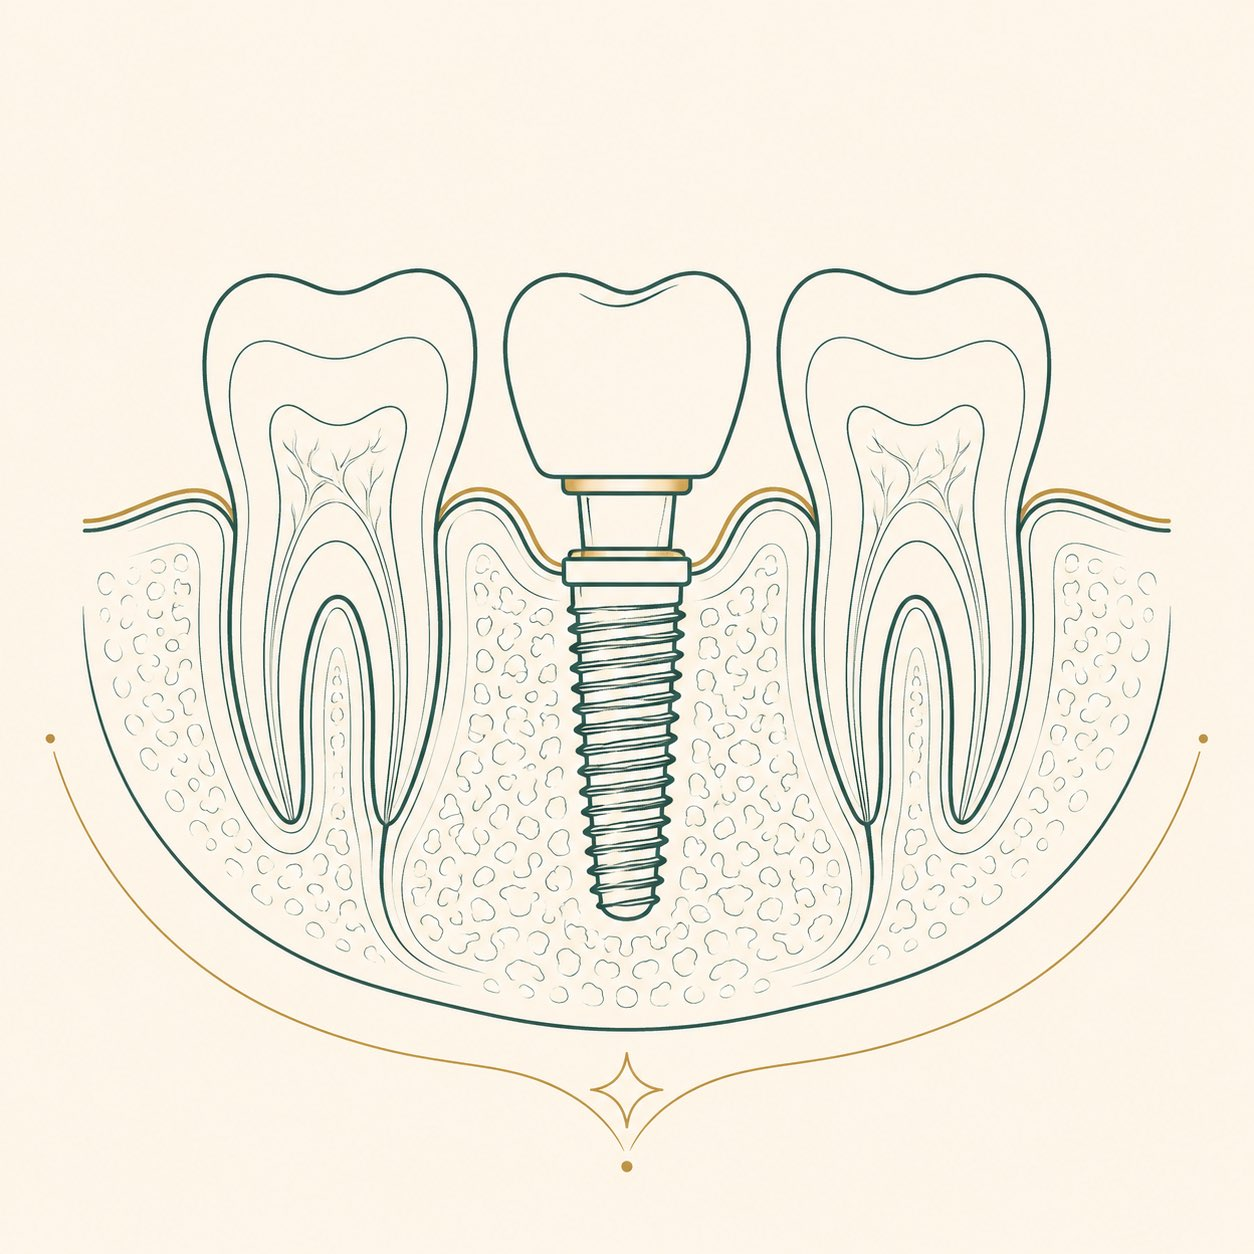
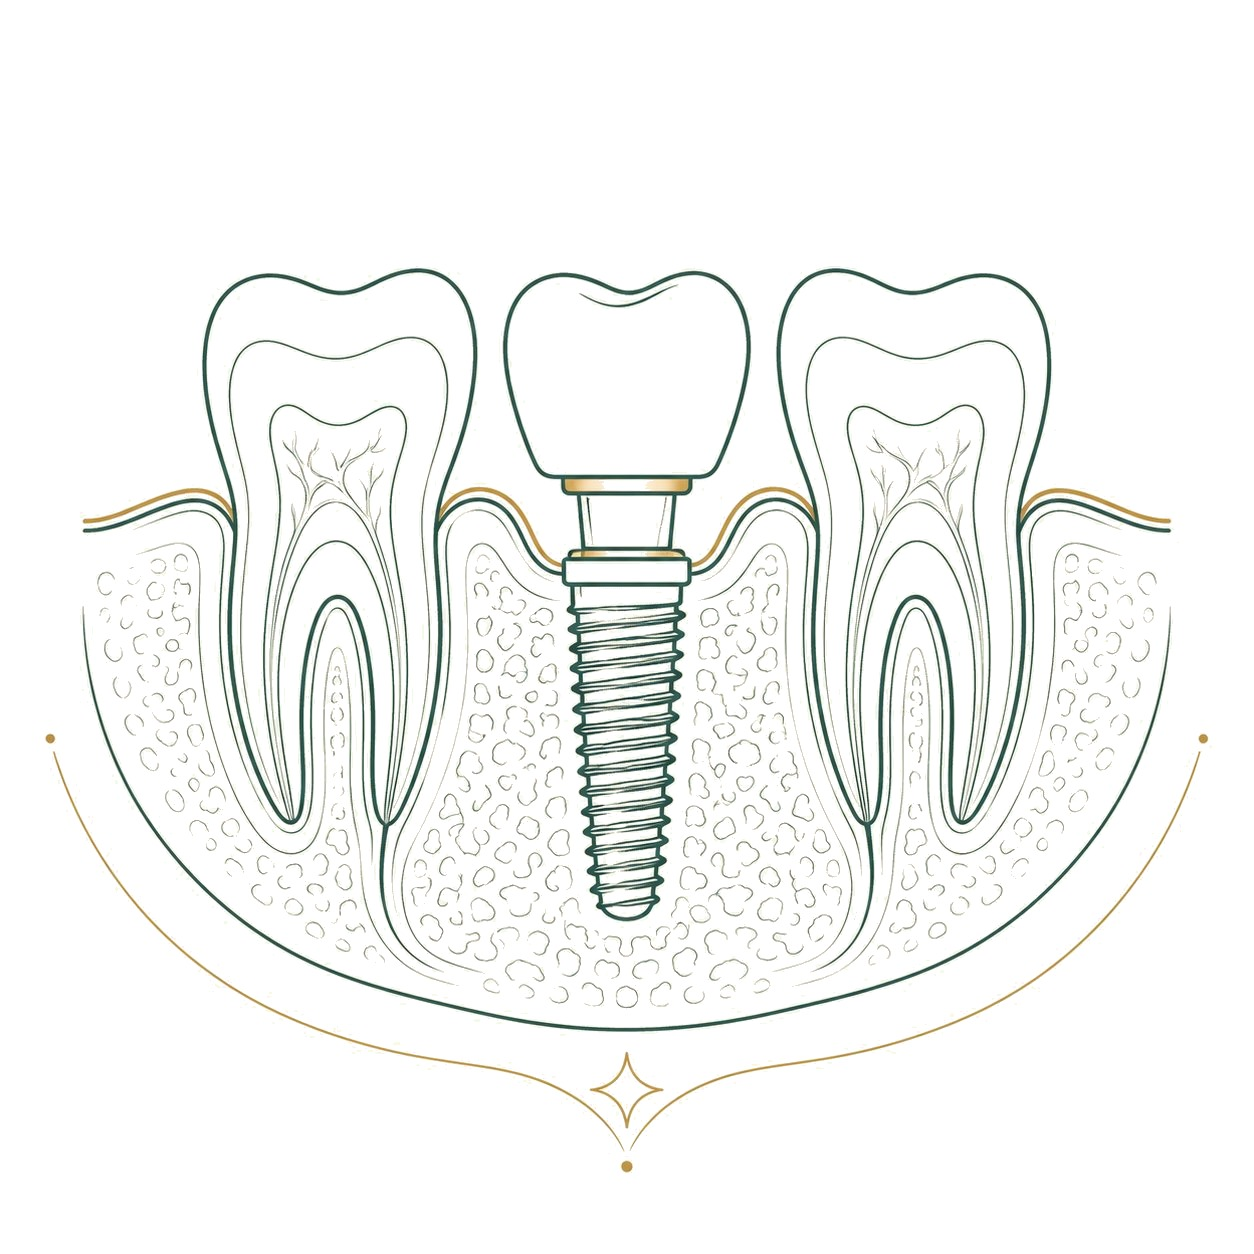
TR alt sayfa koyu tema: implant pilotu + paylasimli bg-theme.css
- docs/assets/css/bg-theme.css eklendi (paylasimli koyu tema: chrome + makale sablonu)
- logo-bogazici.svg + seal-footer.svg asset olarak eklendi (img referansli)
- tedaviler/implant.html yeni temaya cevrildi (hero band, gold aksan, Plus Jakarta + Fraunces)
- tedavi-implant.jpg beyaz zemine cevrildi
- canonical + og eklendi; icerik/byline/kaynakca/muhur korundu; RG 33075 uyumlu

diff --git a/docs/tedaviler/implant.html b/docs/tedaviler/implant.html
@@ -1,6 +1,6 @@
 <!--
   © 2026 Yıldırım Yavuz Kılıç. Tüm hakları saklıdır.
-  Boğaziçi Diş · Tedavi sayfası · İmplant · taslak v0.1
+  Boğaziçi Diş · Tedavi sayfası · İmplant · koyu tema v1
   Design & engineering: Y. Yavuz Kılıç
 -->
 <!DOCTYPE html>
@@ -11,9 +11,14 @@
 <meta name="author" content="Yıldırım Yavuz Kılıç">
 <title>İmplant Tedavisi · Boğaziçi Diş · İstanbul</title>
 <meta name="description" content="İmplant nedir, kimler için uygundur, tedavi nasıl ilerler? Bilimsel kaynaklara dayalı bilgilendirme. Özel Boğaziçi Ağız ve Diş Sağlığı Polikliniği, İstanbul.">
-<link rel="preconnect" href="https://fonts.googleapis.com">
-<link rel="preconnect" href="https://fonts.gstatic.com" crossorigin>
-<link href="https://fonts.googleapis.com/css2?family=Fraunces:ital,opsz,wght@0,9..144,340;0,9..144,420;0,9..144,520;1,9..144,340;1,9..144,420&family=Instrument+Sans:ital,wght@0,400;0,500;1,400&display=swap" rel="stylesheet">
+<link rel="canonical" href="https://swordlab34.github.io/bogazici-web/tedaviler/implant.html">
+<meta name="robots" content="index,follow">
+<meta property="og:type" content="article">
+<meta property="og:site_name" content="Boğaziçi Diş">
+<meta property="og:title" content="İmplant Tedavisi · Boğaziçi Diş · İstanbul">
+<meta property="og:description" content="İmplant nedir, kimler için uygundur, tedavi nasıl ilerler? Bilimsel kaynaklara dayalı bilgilendirme.">
+<meta property="og:url" content="https://swordlab34.github.io/bogazici-web/tedaviler/implant.html">
+<meta property="og:image" content="https://swordlab34.github.io/bogazici-web/assets/tedavi/tedavi-implant.jpg">
 <script type="application/ld+json">
 {
   "@context": "https://schema.org",
@@ -24,84 +29,52 @@
   "inLanguage": "tr"
 }
 </script>
-<style>
-:root{--bone:#F1EDE3;--bone-deep:#E8E2D4;--petrol:#0B4A40;--petrol-deep:#062E28;--gold:#B99141;--gold-soft:#D3B878;--ink:#1C2321;--ink-soft:#575F5A;--hairline:rgba(28,35,33,.2)}
-*{margin:0;padding:0;box-sizing:border-box}
-html{scroll-behavior:smooth}
-body{background:var(--bone);color:var(--ink);font-family:"Instrument Sans",system-ui,sans-serif;font-size:16.5px;line-height:1.65;-webkit-font-smoothing:antialiased}
-a{color:inherit}
-header{display:flex;align-items:center;justify-content:space-between;gap:24px;padding:20px clamp(24px,5vw,72px);border-bottom:1px solid var(--hairline)}
-.brand{display:flex;flex-direction:column;align-items:center;gap:7px;text-decoration:none}
-.hlogo{width:180px;height:auto;display:block}
-.hlogo path,.hlogo text{fill:var(--petrol-deep)}
-.sub{font-size:9px;letter-spacing:.42em;text-indent:.42em;text-align:center;text-transform:uppercase;color:var(--ink-soft);font-weight:500}
-.back{font-size:12px;letter-spacing:.16em;text-transform:uppercase;font-weight:500;text-decoration:none;border-bottom:1px solid var(--hairline);padding-bottom:3px;transition:border-color .3s,color .3s}
-.back:hover{color:var(--gold);border-color:var(--gold)}
-main{max-width:760px;margin:0 auto;padding:clamp(40px,7vh,72px) 24px clamp(56px,9vh,96px)}
-.micro{font-size:11px;letter-spacing:.24em;text-transform:uppercase;font-weight:500;color:var(--ink-soft)}
-h1{font-family:"Fraunces",Georgia,serif;font-weight:420;font-size:clamp(30px,4.5vw,44px);letter-spacing:-.01em;line-height:1.15;margin:14px 0 6px}
-.updated{font-size:12.5px;letter-spacing:.08em;text-transform:uppercase;color:var(--ink-soft);margin-bottom:34px}
-h2{font-family:"Fraunces",Georgia,serif;font-weight:420;font-size:22px;line-height:1.3;margin:34px 0 10px}
-p{margin:0 0 14px;color:#2A322F}
-ul{margin:0 0 14px 20px}
-li{margin-bottom:7px;color:#2A322F}
-.note{margin-top:36px;padding-top:18px;border-top:1px solid var(--hairline);font-size:13.5px;color:var(--ink-soft)}
-footer{border-top:1px solid var(--hairline);padding:18px clamp(24px,5vw,72px) 24px;display:flex;justify-content:space-between;flex-wrap:wrap;gap:12px;font-size:12.5px;color:var(--ink-soft);letter-spacing:.04em}
-footer .addr,footer .legalnav{flex-basis:100%;text-align:center;margin:0 0 6px;font-size:11.5px;letter-spacing:.16em;text-transform:uppercase}
-footer a{color:inherit;text-decoration:none;transition:color .3s}
-footer a:hover{color:var(--gold)}
-footer .legalnav a{border-bottom:1px solid var(--hairline);padding-bottom:2px}
-
-.meta{display:flex;flex-wrap:wrap;gap:8px 22px;margin-bottom:34px}
-.meta span{font-size:12.5px;letter-spacing:.08em;text-transform:uppercase;color:var(--ink-soft)}
-.lead{font-size:18.5px;line-height:1.7;color:#232B28;margin-bottom:22px}
-h2{margin-top:38px}
-.sss{margin-top:44px;border-top:1px solid var(--hairline);padding-top:8px}
-.sss h2{margin-top:26px}
-details{border-bottom:1px solid var(--hairline);padding:16px 0}
-summary{cursor:pointer;font-family:"Fraunces",Georgia,serif;font-size:18px;font-weight:420;list-style:none;position:relative;padding-right:28px}
-summary::-webkit-details-marker{display:none}
-summary::after{content:"+";position:absolute;right:2px;top:0;color:var(--gold);font-family:"Instrument Sans",sans-serif;font-weight:500;transition:transform .25s}
-details[open] summary::after{transform:rotate(45deg)}
-details p{margin:12px 0 4px;color:#2A322F}
-.kaynak{margin-top:44px;border-top:1px solid var(--hairline);padding-top:18px}
-.kaynak h2{margin-top:8px;font-size:19px}
-.kaynak ol{margin:10px 0 0 20px}
-.kaynak li{font-size:13.5px;color:var(--ink-soft);margin-bottom:8px;line-height:1.55}
-.uyari{margin-top:36px;padding:18px 20px;background:var(--bone-deep);border-left:2px solid var(--gold);font-size:13.5px;color:#2A322F;line-height:1.6}
-.geri-tedavi{display:inline-block;margin-top:34px;font-size:12px;letter-spacing:.16em;text-transform:uppercase;font-weight:500;border-bottom:1px solid var(--hairline);padding-bottom:3px}
-.geri-tedavi:hover{color:var(--gold);border-color:var(--gold)}
-</style>
-<style>
-.cta-altsayfa{margin:40px 0 8px;padding:30px 26px;border:1px solid var(--gold,#B99141);border-radius:14px;background:transparent;text-align:center}
-.cta-altsayfa-txt{margin:0 0 18px;font-size:1.02rem;line-height:1.55;color:var(--ink,#1a1a1a)}
-.cta-line{display:inline-block;white-space:nowrap;font-size:13px;letter-spacing:.16em;text-transform:uppercase;font-weight:500;color:var(--ink,#1a1a1a);border-bottom:1px solid var(--ink,#1a1a1a);padding-bottom:6px;transition:color .3s,border-color .3s;text-decoration:none}
-.cta-line:hover{color:var(--gold,#B99141);border-color:var(--gold,#B99141)}
-.cta-line .arrow{display:inline-block;transform:translateY(1px);margin-left:8px;transition:transform .3s}
-.cta-line:hover .arrow{transform:translate(4px,1px)}
-</style>
+<link rel="preconnect" href="https://fonts.googleapis.com">
+<link rel="preconnect" href="https://fonts.gstatic.com" crossorigin>
+<link href="https://fonts.googleapis.com/css2?family=Fraunces:ital,opsz,wght@0,9..144,400;0,9..144,500;1,9..144,400;1,9..144,500&family=Plus+Jakarta+Sans:wght@400;500;600;700;800&display=swap" rel="stylesheet">
+<link rel="stylesheet" href="../assets/css/bg-theme.css">
 </head>
 <body>
+
 <header>
-  <a class="brand" href="../index.html" aria-label="Boğaziçi Diş ana sayfa">
-    <svg class="hlogo" viewBox="-16 284 1849 597" aria-hidden="true"><path d="M301.0,865.7C300.7,865.4 295.8,864.6 290.0,864.0C267.0,861.6 243.8,855.4 224.0,846.4C197.5,834.4 171.9,816.0 154.4,796.4C147.9,789.1 135.0,772.6 135.0,771.5C135.0,771.2 133.2,768.1 131.0,764.5C121.2,748.5 114.8,732.6 108.9,710.1C107.3,703.8 106.2,698.5 106.4,698.3C106.8,697.9 114.0,708.4 114.0,709.4C114.0,710.4 126.6,730.7 132.7,739.5C152.3,767.9 177.9,793.6 202.3,809.4C215.3,817.8 234.4,827.9 237.4,828.0C238.0,828.0 239.4,828.7 240.4,829.5C241.5,830.3 243.2,831.0 244.3,831.0C245.3,831.0 247.4,831.6 248.8,832.4C252.2,834.1 259.4,836.3 268.5,838.5C272.4,839.4 277.8,840.8 280.6,841.6C283.4,842.4 287.5,843.0 289.8,843.0C292.0,843.0 296.7,843.6 300.2,844.4C309.3,846.5 346.2,847.4 375.0,846.1C388.4,845.6 399.6,845.3 399.9,845.5C400.9,846.5 397.8,848.7 392.8,850.5C389.9,851.5 386.4,853.0 385.0,853.7C383.6,854.4 382.0,855.0 381.3,855.0C380.6,855.0 378.6,855.6 376.8,856.4C372.1,858.4 356.8,861.8 344.2,863.7C333.7,865.2 302.0,866.7 301.0,865.7z M440.1,858.5C439.0,856.5 438.0,854.3 438.0,853.7C437.9,853.0 436.8,850.7 435.5,848.5C434.1,846.3 432.7,843.8 432.3,843.0C430.6,839.2 421.6,828.5 411.2,817.7C404.9,811.2 400.0,805.7 400.4,805.3C400.7,804.9 403.4,804.7 406.3,804.8C424.2,805.5 437.0,812.9 444.0,826.6C447.2,832.8 447.5,834.3 447.5,841.5C447.4,848.8 445.1,859.0 443.0,861.3C442.6,861.8 441.3,860.5 440.1,858.5z M126.5,804.3C120.4,802.7 112.1,793.7 84.7,758.5C67.9,736.9 44.0,700.9 32.5,680.0C29.0,673.6 16.2,647.6 13.4,641.2C12.6,639.5 11.4,636.5 10.6,634.8C7.9,628.6 4.2,618.5 3.0,614.2C2.4,611.9 1.5,610.0 1.0,610.0C-0.2,610.0 -0.4,377.3 0.8,376.8C1.2,376.6 3.5,372.7 5.9,368.0C16.8,346.6 27.7,332.5 41.9,321.7C53.3,313.1 57.9,310.9 78.0,304.5C87.7,301.4 125.1,301.8 138.0,305.0C152.6,308.7 165.8,312.5 168.0,313.5C172.5,315.7 178.1,318.0 179.0,318.0C180.0,318.0 192.6,323.9 217.8,336.2C229.8,342.0 236.6,346.0 237.7,347.6C239.2,349.9 239.2,350.2 237.1,352.4C235.0,354.6 210.1,367.9 205.5,369.3C204.4,369.6 200.8,371.0 197.5,372.4C190.7,375.3 181.5,375.9 177.2,373.6C150.9,359.9 135.2,355.5 115.0,356.2C102.4,356.7 96.4,358.0 87.2,362.2C77.4,366.8 64.6,379.6 59.9,389.5C59.4,390.6 58.6,392.2 58.0,393.0C54.0,399.3 47.1,419.0 44.4,431.5C39.0,457.6 38.7,461.4 38.7,504.0C38.7,539.6 39.0,546.5 40.9,561.0C43.4,579.7 44.6,588.1 46.2,596.0C46.7,599.0 47.5,603.8 47.9,606.5C48.3,609.2 49.2,613.5 49.9,616.0C50.6,618.5 51.6,622.1 52.1,624.0C55.4,637.1 56.3,640.8 56.8,643.5C57.0,645.1 57.9,647.4 58.6,648.5C59.4,649.6 60.0,651.2 60.0,652.0C60.0,654.3 65.8,671.9 67.5,675.2C68.3,676.6 69.0,678.5 69.0,679.4C69.0,680.2 69.6,682.4 70.4,684.2C71.2,686.0 73.3,691.1 75.0,695.5C76.8,699.9 79.5,706.2 81.1,709.5C83.5,714.7 86.9,722.3 90.1,729.5C90.6,730.6 91.4,732.2 92.0,733.0C92.5,733.8 95.2,739.2 98.0,745.0C108.0,765.5 122.0,789.5 128.8,797.8C134.1,804.3 133.5,806.0 126.5,804.3z M1814.5,558.4C1808.6,549.3 1773.3,513.2 1762.3,504.9C1759.1,502.6 1756.0,500.1 1755.5,499.5C1753.6,497.4 1738.5,486.3 1729.5,480.4C1708.0,466.2 1683.6,452.8 1666.0,445.5C1662.4,444.0 1659.1,442.4 1658.5,441.9C1658.0,441.4 1657.0,441.0 1656.2,441.0C1655.4,441.0 1653.4,440.4 1651.7,439.6C1620.2,426.0 1559.2,410.9 1524.5,408.0C1519.0,407.6 1512.5,406.7 1510.0,406.1C1504.3,404.7 1470.0,403.0 1448.7,403.0C1425.0,403.0 1389.7,404.8 1380.6,406.5C1376.3,407.3 1370.2,408.0 1367.1,408.0C1361.5,408.0 1351.3,409.4 1328.5,413.2C1321.9,414.3 1313.8,415.6 1310.5,416.1C1307.2,416.6 1301.3,417.7 1297.5,418.5C1293.7,419.4 1287.6,420.7 1284.0,421.5C1263.4,425.9 1249.0,429.3 1245.7,430.6C1243.7,431.4 1241.1,432.0 1240.0,432.0C1238.9,432.0 1232.3,433.6 1225.3,435.6C1218.3,437.6 1210.2,439.8 1207.5,440.4C1204.8,441.1 1201.8,441.9 1201.0,442.3C1200.2,442.6 1195.9,443.8 1191.5,445.0C1187.1,446.2 1179.0,448.5 1173.5,450.2C1168.0,451.8 1161.5,453.7 1159.0,454.4C1156.5,455.2 1150.5,457.0 1145.5,458.5C1120.9,465.9 1108.4,469.6 1101.5,471.5C1098.2,472.4 1093.2,474.0 1090.5,475.1C1087.7,476.1 1084.8,477.0 1084.0,477.0C1083.2,477.0 1077.3,478.7 1071.0,480.6C1064.7,482.6 1057.2,484.8 1054.5,485.6C1051.8,486.3 1047.2,487.6 1044.5,488.4C1040.1,489.8 1035.4,491.1 1013.3,497.3C1010.5,498.1 1007.6,499.1 1006.9,499.6C1006.2,500.0 1003.8,500.7 1001.5,501.1C999.3,501.5 992.5,503.2 986.5,505.0C980.5,506.8 972.8,508.8 969.5,509.5C953.6,513.0 949.9,513.9 946.8,514.8C945.0,515.4 939.2,516.6 934.0,517.5C928.8,518.4 923.5,519.6 922.3,520.1C921.0,520.5 917.0,521.2 913.3,521.6C909.5,522.0 905.4,522.7 904.0,523.2C902.6,523.7 898.1,524.6 894.0,525.1C889.9,525.6 882.2,526.7 877.0,527.5C871.8,528.4 862.1,529.7 855.5,530.5C844.3,531.9 838.2,532.6 817.0,535.1C807.1,536.2 792.4,537.5 772.0,539.1C749.0,540.9 680.4,540.6 654.5,538.7C631.4,536.9 607.7,534.7 592.5,532.9C587.5,532.3 580.1,531.4 576.0,530.9C571.9,530.4 566.5,529.6 564.0,529.1C561.5,528.6 555.2,527.4 550.0,526.5C544.8,525.6 537.4,524.3 533.5,523.5C529.6,522.7 524.0,521.6 521.0,521.0C504.6,517.7 501.0,517.0 495.5,515.4C492.2,514.5 487.9,513.4 486.0,513.1C484.1,512.7 480.9,511.8 479.0,511.2C477.1,510.6 470.8,508.7 465.0,507.0C449.5,502.3 444.9,500.8 441.0,499.5C439.1,498.8 434.8,497.5 431.5,496.5C420.8,493.4 416.9,491.8 417.3,490.6C417.9,488.9 431.6,488.7 439.0,490.4C442.6,491.2 449.8,492.6 455.0,493.5C460.2,494.4 466.7,495.6 469.5,496.2C472.2,496.8 477.2,497.6 480.5,498.0C483.8,498.4 488.5,499.2 491.0,499.8C493.5,500.5 500.0,501.7 505.5,502.6C511.0,503.4 517.2,504.5 519.4,505.0C526.8,506.6 528.0,504.5 528.0,489.3C528.0,479.0 525.3,465.9 522.9,464.4C522.4,464.1 522.0,463.3 522.0,462.5C522.0,459.9 514.5,448.5 508.6,442.2C495.9,428.6 478.9,420.2 458.0,417.0C450.8,415.9 425.0,415.9 418.0,417.0C406.6,418.8 386.3,424.0 379.5,426.9C378.4,427.4 374.4,428.8 370.5,430.0C362.0,432.6 347.1,437.9 345.0,439.0C344.1,439.4 341.9,440.1 340.0,440.5C338.1,440.9 336.1,441.6 335.5,442.0C334.5,442.7 305.4,452.1 296.5,454.6C267.3,462.6 233.3,466.3 206.7,464.2C185.8,462.5 178.7,461.5 165.7,458.5C147.4,454.2 136.0,450.2 136.0,448.2C136.0,446.7 136.5,446.7 165.5,446.9C185.0,447.1 192.0,446.7 203.0,445.1C210.4,444.1 217.8,442.7 219.3,442.1C220.9,441.5 223.3,441.0 224.8,441.0C226.2,441.0 229.2,440.4 231.5,439.6C233.7,438.9 238.2,437.5 241.5,436.5C244.8,435.5 250.7,433.6 254.5,432.3C258.4,430.9 262.9,429.5 264.5,429.0C266.1,428.5 274.0,425.8 282.0,423.0C290.0,420.2 297.9,417.5 299.5,417.0C305.0,415.4 327.5,407.8 329.3,406.8C330.3,406.3 336.1,404.4 342.3,402.4C348.5,400.5 355.1,398.3 357.0,397.6C361.3,395.9 368.1,394.1 374.0,393.0C376.5,392.6 379.6,391.7 381.0,391.2C383.5,390.2 391.1,388.6 408.4,385.4C421.3,383.1 458.9,383.0 468.0,385.4C478.7,388.2 481.2,389.1 489.0,392.8C499.3,397.7 504.4,401.2 512.3,408.9C523.4,419.6 531.4,432.8 536.8,449.5C541.9,465.3 542.0,465.3 545.1,492.5C546.4,503.7 547.5,505.7 552.9,506.6C554.9,506.9 558.5,507.8 560.9,508.6C563.4,509.4 566.5,510.0 567.8,510.0C569.2,510.0 572.6,510.6 575.4,511.4C584.3,513.9 613.6,519.0 618.9,519.0C620.8,519.0 626.0,519.6 630.4,520.4C652.9,524.4 731.1,524.4 764.5,520.5C771.1,519.7 781.5,518.6 787.5,518.0C793.5,517.3 801.0,516.5 804.0,516.0C819.6,513.8 826.2,512.8 833.0,511.4C837.2,510.7 842.1,510.0 844.0,510.0C845.8,510.0 849.9,509.4 852.9,508.6C856.0,507.8 866.4,505.7 876.0,504.0C885.6,502.3 894.9,500.4 896.5,499.8C898.1,499.2 901.8,498.4 904.5,498.0C907.2,497.6 911.5,496.8 914.0,496.1C927.6,492.6 940.1,489.7 944.2,489.0C946.8,488.5 949.8,487.7 950.9,487.1C952.0,486.5 954.3,486.0 956.0,486.0C957.7,486.0 960.0,485.5 961.1,485.0C963.3,483.8 984.5,478.1 990.8,477.0C993.2,476.6 995.6,475.8 996.2,475.2C996.9,474.5 998.4,474.0 999.6,474.0C1000.8,474.0 1004.2,473.3 1007.1,472.4C1010.1,471.5 1014.8,470.2 1017.5,469.4C1020.2,468.6 1024.9,467.3 1027.8,466.5C1030.6,465.7 1035.4,464.4 1038.2,463.6C1041.1,462.8 1047.3,461.0 1052.0,459.6C1056.7,458.2 1062.1,456.7 1064.0,456.4C1065.9,456.0 1068.3,455.3 1069.2,454.8C1070.2,454.3 1072.9,453.6 1075.2,453.1C1077.6,452.6 1080.8,451.7 1082.5,451.1C1084.2,450.5 1088.2,449.3 1091.5,448.4C1094.8,447.5 1099.8,446.1 1102.5,445.3C1105.2,444.6 1109.9,443.3 1112.8,442.5C1115.6,441.7 1120.4,440.3 1123.2,439.5C1131.6,437.2 1135.9,436.0 1145.7,433.5C1150.7,432.2 1155.7,430.7 1156.8,430.1C1158.0,429.5 1159.9,429.0 1161.2,429.0C1162.5,429.0 1165.5,428.3 1168.0,427.5C1172.9,425.9 1185.8,422.6 1195.9,420.3C1199.4,419.6 1203.1,418.5 1204.1,418.0C1205.1,417.4 1207.2,417.0 1208.9,417.0C1210.6,417.0 1213.7,416.4 1215.7,415.6C1217.8,414.9 1223.1,413.5 1227.5,412.5C1231.9,411.6 1238.0,410.2 1241.1,409.4C1244.1,408.6 1248.0,408.0 1249.6,408.0C1251.2,408.0 1253.8,407.3 1255.4,406.5C1256.9,405.7 1259.4,405.0 1260.9,405.0C1262.4,405.0 1266.0,404.4 1269.0,403.6C1272.0,402.9 1279.2,401.5 1285.0,400.6C1290.8,399.6 1298.0,398.2 1301.1,397.4C1304.1,396.6 1308.6,396.0 1311.1,396.0C1313.5,396.0 1318.0,395.3 1321.0,394.5C1324.0,393.7 1328.8,393.0 1331.5,393.0C1334.2,393.0 1340.5,392.4 1345.5,391.6C1360.9,389.2 1426.4,385.0 1449.0,385.0C1476.5,385.0 1529.2,389.8 1552.5,394.5C1556.3,395.3 1561.8,396.3 1564.5,396.8C1569.1,397.7 1578.3,399.9 1587.0,402.1C1588.9,402.6 1593.0,403.5 1596.0,404.2C1599.0,405.0 1602.5,406.1 1603.7,406.8C1604.9,407.4 1606.7,408.0 1607.7,408.0C1609.5,408.0 1624.5,413.0 1635.0,417.0C1638.0,418.2 1641.6,419.5 1643.0,420.0C1654.4,423.7 1694.0,443.2 1710.5,453.1C1712.2,454.1 1715.5,456.1 1718.0,457.5C1723.5,460.6 1724.3,461.1 1734.7,468.2C1739.3,471.4 1743.3,474.0 1743.5,474.0C1743.7,474.0 1746.9,476.3 1750.6,479.1C1776.4,498.6 1797.9,520.6 1813.2,543.1C1817.5,549.4 1818.0,550.8 1818.0,555.6C1818.0,561.6 1817.1,562.3 1814.5,558.4z M166.0,418.5C166.0,417.7 166.7,417.0 167.5,417.0C168.3,417.0 170.6,416.1 172.7,415.1C179.7,411.5 188.2,408.0 190.0,408.0C191.0,408.0 192.3,407.3 193.0,406.5C193.7,405.7 195.0,405.0 196.0,405.0C197.6,405.0 200.8,403.7 214.0,397.9C216.5,396.8 219.8,395.3 221.5,394.6C228.0,391.7 257.5,376.7 261.1,374.4C263.2,373.1 265.2,372.0 265.4,372.0C265.8,372.0 298.2,353.1 303.0,350.1C306.5,347.8 318.6,340.6 320.4,339.6C321.6,339.0 324.4,337.2 326.8,335.7C329.1,334.2 332.9,331.9 335.1,330.7C341.9,327.0 342.7,326.5 344.1,325.3C347.9,322.3 370.3,311.7 378.8,309.0C384.2,307.3 389.9,305.4 391.5,304.8C393.1,304.2 397.4,303.4 401.0,303.0C404.6,302.5 409.5,301.7 412.0,301.0C421.1,298.7 451.2,301.0 459.5,304.6C461.1,305.3 465.4,306.9 468.8,308.1C472.3,309.3 476.7,311.4 478.6,312.7C480.5,313.9 482.3,315.0 482.6,315.0C484.3,315.0 495.8,324.0 503.8,331.6C513.3,340.5 522.2,351.4 527.6,360.5C529.2,363.2 531.0,366.4 531.7,367.5C533.0,369.7 533.1,369.9 534.9,375.0C537.9,383.4 537.4,384.7 532.2,381.2C530.7,380.2 521.9,374.7 512.5,369.1C503.1,363.5 490.6,355.8 484.5,352.1C464.4,339.7 449.6,335.5 429.0,336.3C401.3,337.3 386.9,342.1 337.0,366.9C320.2,375.3 305.8,382.5 305.0,383.0C302.1,384.6 286.0,392.0 280.8,394.1C277.9,395.2 274.7,396.6 273.7,397.1C272.8,397.6 267.2,399.6 261.2,401.6C255.3,403.5 249.7,405.6 248.6,406.1C247.6,406.7 244.7,407.5 242.1,408.0C239.6,408.5 232.8,410.0 227.0,411.4C212.6,414.9 207.6,415.9 199.5,417.1C195.7,417.6 189.8,418.5 186.5,419.0C183.2,419.5 177.2,420.0 173.2,420.0C167.5,420.0 166.0,419.7 166.0,418.5z"/><text y="765" font-family="Fraunces,Georgia,serif" font-weight="420" font-size="107"><tspan x="405.7" text-anchor="middle">B</tspan><tspan x="539.9" text-anchor="middle">O</tspan><tspan x="677.2" text-anchor="middle">Ğ</tspan><tspan x="814.5" text-anchor="middle">A</tspan><tspan x="945.7" text-anchor="middle">Z</tspan><tspan x="1056.1" text-anchor="middle">İ</tspan><tspan x="1169.6" text-anchor="middle">Ç</tspan><tspan x="1283" text-anchor="middle">İ</tspan><tspan x="1486.2" text-anchor="middle">D</tspan><tspan x="1602.6" text-anchor="middle">İ</tspan><tspan x="1710.1" text-anchor="middle">Ş</tspan></text></svg>
-    <span class="sub">İstanbul · gülüş atölyesi</span>
-  </a>
-  <a class="back" href="../index.html">Siteye dön</a>
+  <div class="wrap bar">
+    <a class="logo" href="../index.html" aria-label="Boğaziçi Diş ana sayfa">
+      <img class="rlogo" src="../assets/img/logo-bogazici.svg" alt="Boğaziçi Diş">
+    </a>
+    <nav>
+      <a href="../index.html#work">Tedaviler</a>
+      <a href="../index.html#guide">Rehber</a>
+      <a href="../index.html#faq">Sık Sorulanlar</a>
+    </nav>
+    <a class="wa" href="https://wa.me/[phone redacted]" aria-label="WhatsApp'tan yazın">
+      <svg viewBox="0 0 24 24" fill="currentColor" aria-hidden="true"><path d="M12 2a10 10 0 0 0-8.6 15L2 22l5.2-1.4A10 10 0 1 0 12 2zm0 18a8 8 0 0 1-4.1-1.1l-.3-.2-3 .8.8-2.9-.2-.3A8 8 0 1 1 12 20zm4.6-6c-.2-.1-1.5-.7-1.7-.8-.2-.1-.4-.1-.6.1-.2.2-.6.8-.8 1-.1.1-.3.2-.5.1a6.5 6.5 0 0 1-3.2-2.8c-.2-.4.2-.4.6-1.2.1-.1 0-.3 0-.4l-.8-1.9c-.2-.5-.4-.4-.6-.4h-.5a1 1 0 0 0-.7.3c-.2.3-.9.9-.9 2.2s.9 2.5 1 2.7c.1.2 1.8 2.8 4.4 3.9 1.6.7 2.2.7 3 .6.5 0 1.5-.6 1.7-1.2.2-.6.2-1.1.1-1.2 0-.1-.2-.2-.5-.3z"/></svg>
+      <span>WhatsApp</span>
+    </a>
+    <button class="burger" aria-label="Menü" onclick="menuToggle()"><span></span><span></span><span></span></button>
+  </div>
+  <div class="mnav" id="mnav">
+    <a href="../index.html#work" onclick="menuToggle()">Tedaviler</a>
+    <a href="../index.html#guide" onclick="menuToggle()">Rehber</a>
+    <a href="../index.html#faq" onclick="menuToggle()">Sık Sorulanlar</a>
+  </div>
 </header>
 
-<main>
-  <p class="micro">Tedavi Alanlarımız · 01</p>
-  <h1>İmplant</h1>
-  <div class="meta">
-    <span>Son güncelleme · 6 Temmuz 2026</span>
-    <span>Tıbbi kontrol · Dt. Mustafa Onur İmamoğlu</span>
+<section class="doc-hero">
+  <div class="wrap">
+    <span class="eyebrow h-eyebrow">Tedavi Alanlarımız · 01</span>
+    <h1>İmplant</h1>
+    <div class="doc-byline">
+      <span>Son güncelleme · <b>6 Temmuz 2026</b></span>
+      <span>Tıbbi kontrol · <b>Dt. Mustafa Onur İmamoğlu</b></span>
+    </div>
   </div>
+</section>
 
-  <figure style="margin:0 0 30px;border:1px solid rgba(28,35,33,.15)">
-  <img src="../assets/tedavi/tedavi-implant.jpg" alt="Çene kemiğine yerleştirilmiş implant, dayanak ve kron kesit çizimi" width="1254" height="1254" loading="lazy" style="width:100%;height:auto;display:block">
-  <figcaption style="font-size:11px;letter-spacing:.2em;text-transform:uppercase;color:#575F5A;padding:10px 2px 12px">Çizim · implant, dayanak ve kron kesiti</figcaption>
-</figure>
+<main class="doc">
+  <figure>
+    <img src="../assets/tedavi/tedavi-implant.jpg" alt="Çene kemiğine yerleştirilmiş implant, dayanak ve kron kesit çizimi" width="1254" height="1254" loading="lazy">
+    <figcaption>Çizim · implant, dayanak ve kron kesiti</figcaption>
+  </figure>
 <p class="lead">İmplant, eksik dişin yerine çene kemiğine yerleştirilen ve üzerine kron, köprü veya protez taşıyan yapay diş köküdür. Doğru planlanan ve düzenli bakımı yapılan implantlar, bilimsel çalışmalarda on yıl ve üzeri sürelerde yüzde doksanın üzerinde yerinde kalma oranı göstermektedir [1, 2].</p>
 
 <h2>İmplant nedir?</h2>
@@ -165,18 +138,42 @@ details p{margin:12px 0 4px;color:#2A322F}
   </div>
 
   <div class="cta-altsayfa">
-<p class="cta-altsayfa-txt">Bu tedavi hakkında soru sormak ister misiniz? Diş hekimlerimize dilediğiniz saatte yazabilirsiniz.</p>
-<a class="cta-line" href="https://wa.me/905551560505?text=Merhaba%2C%20Bo%C4%9Fazi%C3%A7i%20Di%C5%9F%27ten%20bilgi%20almak%20istiyorum.">Bize yazın<span class="arrow">→</span></a>
-</div>
-<a class="geri-tedavi" href="../index.html">← Tüm tedavi alanları</a>
+    <p class="cta-altsayfa-txt">Bu tedavi hakkında soru sormak ister misiniz? Diş hekimlerimize dilediğiniz saatte yazabilirsiniz.</p>
+    <a class="wa" href="https://wa.me/905551560505?text=Merhaba%2C%20Bo%C4%9Fazi%C3%A7i%20Di%C5%9F%27ten%20bilgi%20almak%20istiyorum."><svg viewBox="0 0 24 24" fill="currentColor" aria-hidden="true"><path d="M12 2a10 10 0 0 0-8.6 15L2 22l5.2-1.4A10 10 0 1 0 12 2zm0 18a8 8 0 0 1-4.1-1.1l-.3-.2-3 .8.8-2.9-.2-.3A8 8 0 1 1 12 20zm4.6-6c-.2-.1-1.5-.7-1.7-.8-.2-.1-.4-.1-.6.1-.2.2-.6.8-.8 1-.1.1-.3.2-.5.1a6.5 6.5 0 0 1-3.2-2.8c-.2-.4.2-.4.6-1.2.1-.1 0-.3 0-.4l-.8-1.9c-.2-.5-.4-.4-.6-.4h-.5a1 1 0 0 0-.7.3c-.2.3-.9.9-.9 2.2s.9 2.5 1 2.7c.1.2 1.8 2.8 4.4 3.9 1.6.7 2.2.7 3 .6.5 0 1.5-.6 1.7-1.2.2-.6.2-1.1.1-1.2 0-.1-.2-.2-.5-.3z"/></svg><span>Bize yazın</span></a>
+  </div>
+
+  <a class="geri-tedavi" href="../index.html#work">← Tüm tedavi alanları</a>
 </main>
 
 <footer>
-  <p class="addr"><a href="https://www.google.com/maps/search/Dental+Bosphorus+Ba%C4%9Fc%C4%B1lar+Istanbul" target="_blank" rel="noopener">Göztepe Mah. Batışehir Cad. Batışehir G3 Blok No: 6/G · 34200 Bağcılar / İstanbul</a></p>
-  <p class="legalnav"><span style="color:var(--ink)">KVKK Aydınlatma Metni</span> · <a href="../kullanim-kosullari.html">Kullanım Koşulları</a> · <a href="../tibbi-uyari.html">Tıbbi Uyarı</a> · <a href="../sss.html">Sık Sorulan Sorular</a></p>
-  <span>© Özel Boğaziçi Ağız ve Diş Sağlığı Polikliniği · Boğaziçi Diş · İstanbul</span>
-  <span>Son güncelleme: 9 Temmuz 2026 · Site sorumlusu: [phone redacted]</span>
-  <span>Tasarım ve yazılım: Yavuz Kılıç</span>
+  <div class="wrap foot">
+    <div>
+      <a class="logo" href="../index.html" style="margin-bottom:16px" aria-label="Boğaziçi Diş ana sayfa">
+        <img class="rlogo" src="../assets/img/logo-bogazici.svg" alt="Boğaziçi Diş">
+      </a>
+      <p class="addr"><b>Kliniğimiz</b>Göztepe Mah. Batışehir Cad. Batışehir G3 Blok No: 6/G · 34200 Bağcılar / İstanbul</p>
+    </div>
+    <div class="seal-foot-wrap"><img class="seal-footer" src="../assets/img/seal-footer.svg" alt="Boğaziçi Diş amblemi"></div>
+    <div class="foot-cta">
+      <p style="font-size:13px;color:rgba(255,255,255,.6);margin-bottom:14px">Bize kendi dilinizde yazın</p>
+      <a class="wa" href="https://wa.me/905551560505">
+        <svg viewBox="0 0 24 24" fill="currentColor" aria-hidden="true"><path d="M12 2a10 10 0 0 0-8.6 15L2 22l5.2-1.4A10 10 0 1 0 12 2zm0 18a8 8 0 0 1-4.1-1.1l-.3-.2-3 .8.8-2.9-.2-.3A8 8 0 1 1 12 20zm4.6-6c-.2-.1-1.5-.7-1.7-.8-.2-.1-.4-.1-.6.1-.2.2-.6.8-.8 1-.1.1-.3.2-.5.1a6.5 6.5 0 0 1-3.2-2.8c-.2-.4.2-.4.6-1.2.1-.1 0-.3 0-.4l-.8-1.9c-.2-.5-.4-.4-.6-.4h-.5a1 1 0 0 0-.7.3c-.2.3-.9.9-.9 2.2s.9 2.5 1 2.7c.1.2 1.8 2.8 4.4 3.9 1.6.7 2.2.7 3 .6.5 0 1.5-.6 1.7-1.2.2-.6.2-1.1.1-1.2 0-.1-.2-.2-.5-.3z"/></svg>
+        <span>[phone redacted]</span>
+      </a>
+      <span class="soc">
+        <a href="https://www.instagram.com/bogazici.dis/" target="_blank" rel="noopener" aria-label="Instagram"><svg viewBox="0 0 24 24" fill="none" stroke="currentColor" stroke-width="1.7"><rect x="3" y="3" width="18" height="18" rx="5"/><circle cx="12" cy="12" r="4.1"/><circle cx="17.3" cy="6.7" r="1.2" fill="currentColor" stroke="none"/></svg></a>
+        <a href="https://www.facebook.com/profile.php?id=100088344533410" target="_blank" rel="noopener" aria-label="Facebook"><svg viewBox="0 0 24 24" fill="currentColor"><path d="M13.4 21v-6.9h2.3l.35-2.85H13.4V9.4c0-.8.25-1.38 1.42-1.38h1.35V5.5c-.5-.06-1.22-.12-2.05-.12-2.15 0-3.62 1.31-3.62 3.72v2.15H8.2v2.85h2.3V21h2.9z"/></svg></a>
+        <a href="https://www.tiktok.com/@bogazicidis" target="_blank" rel="noopener" aria-label="TikTok"><svg viewBox="0 0 24 24" fill="currentColor"><path d="M16.5 5.8a4.2 4.2 0 0 1-2.6-1.6 4.2 4.2 0 0 1-.8-2.2h-2.8v11.9a2.4 2.4 0 1 1-1.9-2.35V8.7a5.2 5.2 0 1 0 4.7 5.17V8.6a6.9 6.9 0 0 0 4 1.28V7.06a4.2 4.2 0 0 1-.6-.06z"/></svg></a>
+      </span>
+    </div>
+  </div>
+  <div class="wrap copy">
+    <p class="legalnav"><a href="../kvkk.html">KVKK Aydınlatma Metni ve Çerez Politikası</a> · <a href="../kullanim-kosullari.html">Kullanım Koşulları</a> · <a href="../tibbi-uyari.html">Tıbbi Uyarı</a> · <a href="../sss.html">Sık Sorulan Sorular</a></p>
+    <span>© Özel Boğaziçi Ağız ve Diş Sağlığı Polikliniği · Boğaziçi Diş · İstanbul</span>
+    <span>Tasarım ve yazılım: Yavuz Kılıç</span>
+  </div>
 </footer>
+
+<script>function menuToggle(){document.getElementById('mnav').classList.toggle('open');document.querySelector('.burger').classList.toggle('open');}</script>
 </body>
 </html>

diff --git a/docs/assets/css/bg-theme.css b/docs/assets/css/bg-theme.css
@@ -1,0 +1,157 @@
+/*
+  © 2026 Yıldırım Yavuz Kılıç. Tüm hakları saklıdır.
+  Boğaziçi Diş · Paylaşımlı Tema · bg-theme.css · v1
+  Design & engineering: Y. Yavuz Kılıç
+  ------------------------------------------------------------------
+  Kapsam: alt sayfaların (tedaviler/, rehber/) paylaşımlı koyu teması.
+  1) TOKENS  2) BASE  3) HEADER  4) BUTTONS  5) FOOTER
+  6) MAKALE ŞABLONU (.doc altında scope'lu; ana sayfaya sızmaz)
+  7) RESPONSIVE
+  Chrome değerleri ana sayfa index.html'den birebir alınmıştır.
+*/
+
+/* ============ 1) TOKENS ============ */
+:root{
+  --ink:#09102D;--indigo:#1A4C82;--indigo-deep:#09102D;--violet:#123A63;
+  --gold:#B06A2C;--gold-soft:#E4A86E;--gold-deep:#6E3512;--black:#060B20;
+  --gold-leaf:linear-gradient(150deg,#EFB579 0%,#C67A34 32%,#9A5622 62%,#5E2C0C 100%);
+  --gold-mid:#A85E28;--paper:#FFFFFF;--paper-2:#FFFFFF;
+  --text:#09102D;--muted:#4C4F57;--line:rgba(11,13,40,.10);--radius:16px;--radius-lg:24px;
+  --grad:linear-gradient(120deg,#09102D 0%,#123A63 55%,#1A4C82 100%);
+}
+
+/* ============ 2) BASE ============ */
+*{box-sizing:border-box;margin:0;padding:0}
+html{scroll-behavior:smooth}
+body{font-family:"Plus Jakarta Sans",system-ui,sans-serif;color:var(--text);background:var(--paper);line-height:1.65;-webkit-font-smoothing:antialiased}
+.wrap{max-width:1180px;margin:0 auto;padding:0 28px}
+.eyebrow{font-size:12px;font-weight:700;letter-spacing:.16em;text-transform:uppercase;display:inline-flex;align-items:center;gap:10px;background:var(--gold-leaf);-webkit-background-clip:text;background-clip:text;-webkit-text-fill-color:transparent;color:transparent}
+.eyebrow::before{content:"";width:26px;height:1px;background:var(--gold-mid)}
+.accent{font-family:"Fraunces",serif;font-style:italic;font-weight:400}
+a:focus-visible,.btn:focus-visible{outline:2px solid var(--gold-soft);outline-offset:3px;border-radius:6px}
+
+/* ============ 3) HEADER (birebir) ============ */
+header{position:sticky;top:0;z-index:40;background:#09102D;backdrop-filter:blur(12px);border-bottom:1px solid rgba(255,255,255,.08)}
+.bar{display:flex;align-items:center;justify-content:space-between;height:74px}
+.logo{display:flex;align-items:center;gap:12px;color:#fff;text-decoration:none}
+.rlogo{height:42px;width:auto;display:block}
+nav{display:flex;gap:28px}
+nav a{color:rgba(255,255,255,.78);text-decoration:none;font-size:14.5px;font-weight:500;transition:color .2s}
+nav a:hover{color:#fff}
+.burger{display:none;flex-direction:column;gap:5px;background:none;border:0;cursor:pointer;padding:8px}
+.burger span{width:24px;height:2px;background:#fff;border-radius:2px;transition:transform .25s,opacity .25s}
+.burger.open span:nth-child(1){transform:translateY(7px) rotate(45deg)}
+.burger.open span:nth-child(2){opacity:0}
+.burger.open span:nth-child(3){transform:translateY(-7px) rotate(-45deg)}
+.mnav{display:none;flex-direction:column;background:#09102D;border-top:1px solid rgba(255,255,255,.08)}
+.mnav.open{display:flex}
+.mnav a{color:rgba(255,255,255,.9);text-decoration:none;font-size:16px;font-weight:500;padding:16px 24px;border-bottom:1px solid rgba(255,255,255,.06)}
+.mnav a:active{background:rgba(255,255,255,.05)}
+.wa{display:inline-flex;align-items:center;gap:9px;background:var(--gold-leaf);color:#060B20;font-weight:700;font-size:14px;padding:11px 20px;border-radius:999px;text-decoration:none;transition:transform .18s,box-shadow .18s;position:relative;overflow:hidden}
+.wa:hover{transform:translateY(-2px);box-shadow:0 10px 24px rgba(242,193,78,.32)}
+.wa svg{width:17px;height:17px}
+.wa::after{content:"";position:absolute;top:-10%;left:-70%;width:45%;height:120%;transform:skewX(-18deg);pointer-events:none;background:linear-gradient(105deg,transparent,rgba(255,255,255,.55),transparent);animation:glint 6.8s ease-in-out infinite}
+@keyframes glint{0%,58%{left:-70%}82%,100%{left:135%}}
+
+/* ============ 4) BUTTONS (birebir) ============ */
+.btn{display:inline-flex;align-items:center;gap:10px;font-weight:700;font-size:15px;padding:15px 26px;border-radius:999px;text-decoration:none;transition:transform .18s,box-shadow .18s,background .2s}
+.btn-primary{background:var(--gold-leaf);color:#060B20;box-shadow:inset 0 1px 0 rgba(255,255,255,.5),inset 0 -3px 7px rgba(80,36,8,.55);position:relative;overflow:hidden}
+.btn-primary:hover{transform:translateY(-2px);box-shadow:0 14px 30px rgba(0,0,0,.28)}
+.btn-ghost{background:rgba(255,255,255,.08);color:#fff;border:1px solid rgba(255,255,255,.28)}
+.btn-ghost:hover{background:rgba(255,255,255,.16);transform:translateY(-2px)}
+
+/* ============ 5) FOOTER (birebir) ============ */
+footer{background:var(--black);color:#fff;padding:56px 0 40px;margin-top:20px}
+.foot{display:grid;grid-template-columns:1fr auto 1fr;align-items:center;gap:30px;padding:56px 0 40px}
+.foot .addr{font-size:14px;color:rgba(255,255,255,.72);line-height:1.7;max-width:34ch}
+.foot .addr b{color:#fff;font-weight:700;display:block;margin-bottom:6px;font-size:15px}
+.foot .addr a{color:inherit;text-decoration:none;transition:color .3s}
+.foot .addr a:hover{color:var(--gold-soft)}
+.foot-cta{justify-self:end;text-align:right}
+.seal-foot-wrap{display:flex;align-items:center;justify-content:center}
+.seal-footer{width:132px;height:132px;opacity:.92;display:block}
+footer .soc{display:flex;gap:14px;align-items:center;margin-top:16px;justify-content:flex-end}
+footer .soc a{color:rgba(255,255,255,.55);transition:color .3s}
+footer .soc a:hover{color:var(--gold-soft)}
+footer .soc svg{width:22px;height:22px;display:block}
+.copy{margin-top:36px;padding-top:20px;border-top:1px solid rgba(255,255,255,.12);font-size:12.5px;color:rgba(255,255,255,.5);display:flex;flex-direction:column;gap:8px;text-align:center;align-items:center;flex-wrap:wrap}
+.copy .legalnav{display:flex;flex-wrap:wrap;justify-content:center;gap:4px 8px;font-size:11.5px;color:rgba(255,255,255,.45);letter-spacing:.04em;margin:0 0 4px}
+.copy .legalnav a{color:inherit;text-decoration:none;transition:color .3s}
+.copy .legalnav a:hover{color:var(--gold-soft)}
+
+/* ============ 6) MAKALE ŞABLONU (.doc scope'lu) ============ */
+/* Title band: ana sayfa hero'suyla aynı lacivert gradyan dili */
+.doc-hero{position:relative;background:var(--ink);color:#fff;overflow:hidden}
+.doc-hero::before{content:"";position:absolute;inset:0;background:var(--grad);opacity:.96}
+.doc-hero::after{content:"";position:absolute;inset:0;background:radial-gradient(90% 80% at 82% -10%,rgba(120,165,225,.30),transparent 48%),radial-gradient(60% 80% at 6% 108%,rgba(7,17,45,.55),transparent 60%);mix-blend-mode:screen;pointer-events:none}
+.doc-hero .wrap{position:relative;z-index:2;padding:54px 28px 46px;max-width:900px}
+.doc-hero .h-eyebrow{color:var(--gold-soft)}
+.doc-hero h1{font-weight:800;font-size:clamp(30px,4.6vw,50px);line-height:1.05;letter-spacing:-.02em;margin:16px 0 0}
+.doc-hero h1 .accent{font-weight:400;color:var(--gold-soft);letter-spacing:0}
+.doc-byline{display:flex;flex-wrap:wrap;gap:8px 22px;margin-top:20px;padding-top:18px;border-top:1px solid rgba(255,255,255,.16)}
+.doc-byline span{font-size:12.5px;letter-spacing:.06em;text-transform:uppercase;color:rgba(255,255,255,.66);font-weight:600}
+.doc-byline span b{color:#fff;font-weight:700}
+
+/* Okuma kolonu */
+.doc{max-width:820px;margin:0 auto;padding:clamp(38px,6vh,64px) 28px clamp(56px,9vh,88px)}
+.doc figure{margin:0 0 30px;border:1px solid var(--line);border-radius:var(--radius);overflow:hidden;background:var(--paper-2)}
+.doc figure img{width:100%;height:auto;display:block}
+.doc figcaption{font-size:11px;letter-spacing:.18em;text-transform:uppercase;color:var(--muted);padding:11px 16px 13px}
+.doc .lead{font-size:19px;line-height:1.72;color:var(--text);margin-bottom:26px}
+.doc h2{font-family:"Fraunces",Georgia,serif;font-weight:500;font-size:clamp(22px,2.6vw,27px);line-height:1.25;letter-spacing:-.01em;color:var(--ink);margin:40px 0 12px;padding-top:6px;position:relative}
+.doc h2::before{content:"";position:absolute;top:-6px;left:0;width:34px;height:2px;background:var(--gold-leaf)}
+.doc p{margin:0 0 15px;color:#2A322F;font-size:16.5px}
+.doc ul{margin:0 0 15px 22px}
+.doc li{margin-bottom:8px;color:#2A322F;font-size:16.5px}
+.doc a{color:var(--indigo);text-decoration:underline;text-underline-offset:2px;text-decoration-color:rgba(26,76,130,.35);transition:text-decoration-color .2s}
+.doc a:hover{text-decoration-color:var(--indigo)}
+
+/* SSS akordeon */
+.sss{margin-top:48px;border-top:1px solid var(--line);padding-top:10px}
+.sss h2{margin-top:26px}
+.sss details{border-bottom:1px solid var(--line);padding:16px 0}
+.sss summary{cursor:pointer;font-family:"Fraunces",Georgia,serif;font-size:18px;font-weight:500;color:var(--ink);list-style:none;position:relative;padding-right:32px;transition:color .2s}
+.sss summary:hover{color:var(--indigo)}
+.sss summary::-webkit-details-marker{display:none}
+.sss summary::after{content:"+";position:absolute;right:2px;top:-2px;font-size:24px;line-height:1;color:var(--gold-mid);font-family:"Plus Jakarta Sans",sans-serif;font-weight:500;transition:transform .25s}
+.sss details[open] summary::after{transform:rotate(45deg)}
+.sss details p{margin:12px 0 2px}
+
+/* Kaynakça */
+.kaynak{margin-top:48px;border-top:1px solid var(--line);padding-top:20px}
+.kaynak h2{margin-top:8px;font-size:20px}
+.kaynak h2::before{display:none}
+.kaynak ol{margin:12px 0 0 20px}
+.kaynak li{font-size:13.5px;color:var(--muted);margin-bottom:8px;line-height:1.55}
+
+/* Tıbbi uyarı */
+.uyari{margin-top:40px;padding:20px 22px;background:#F5F7FB;border-left:3px solid var(--gold-mid);border-radius:0 var(--radius) var(--radius) 0;font-size:14px;color:#2A322F;line-height:1.65}
+
+/* WhatsApp CTA kartı (gold-bordered) */
+.cta-altsayfa{margin:44px 0 8px;padding:32px 28px;border:1.5px solid rgba(168,94,40,.5);border-radius:var(--radius-lg);background:var(--paper);text-align:center}
+.cta-altsayfa-txt{margin:0 0 20px;font-size:16.5px;line-height:1.6;color:var(--text)}
+.cta-altsayfa .wa{color:#060B20}
+
+/* Geri linkleri */
+.geri-tedavi{display:inline-block;margin-top:38px;font-size:12px;letter-spacing:.14em;text-transform:uppercase;font-weight:700;color:var(--indigo);text-decoration:none;border-bottom:1px solid var(--line);padding-bottom:3px;transition:color .25s,border-color .25s}
+.geri-tedavi:hover{color:var(--gold-mid);border-color:var(--gold-mid)}
+
+/* ============ 7) RESPONSIVE ============ */
+@media (max-width:900px){
+  nav{display:none}
+  .burger{display:flex}
+  .foot{grid-template-columns:1fr;text-align:center;gap:22px}
+  .foot-cta{justify-self:center;text-align:center}
+  .seal-foot-wrap{margin:18px 0}
+  footer .soc{justify-content:center}
+}
+@media (max-width:620px){
+  .wrap{padding:0 20px}
+  .doc{padding-left:20px;padding-right:20px}
+  .wa span{display:none}
+  .doc-hero .wrap{padding:44px 20px 38px}
+}
+@media (prefers-reduced-motion:reduce){
+  html{scroll-behavior:auto}
+  .wa::after{display:none}
+}